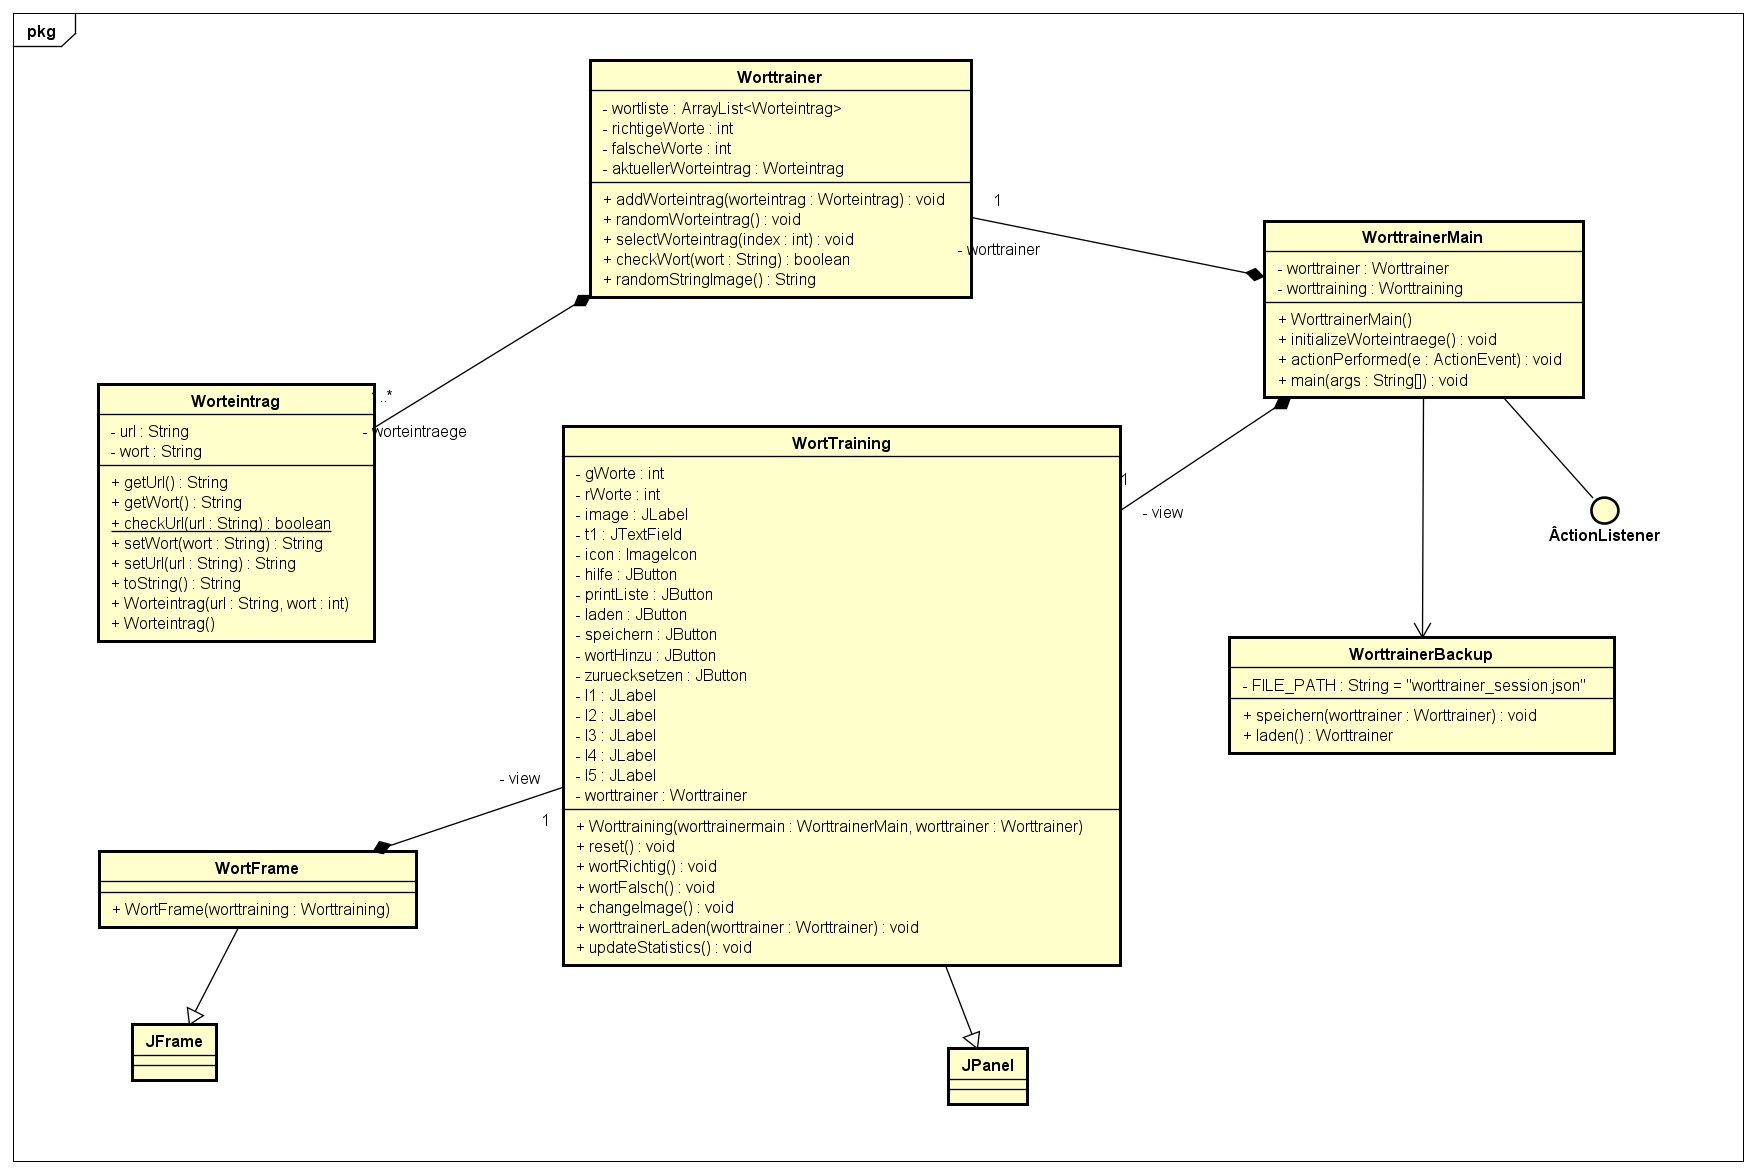
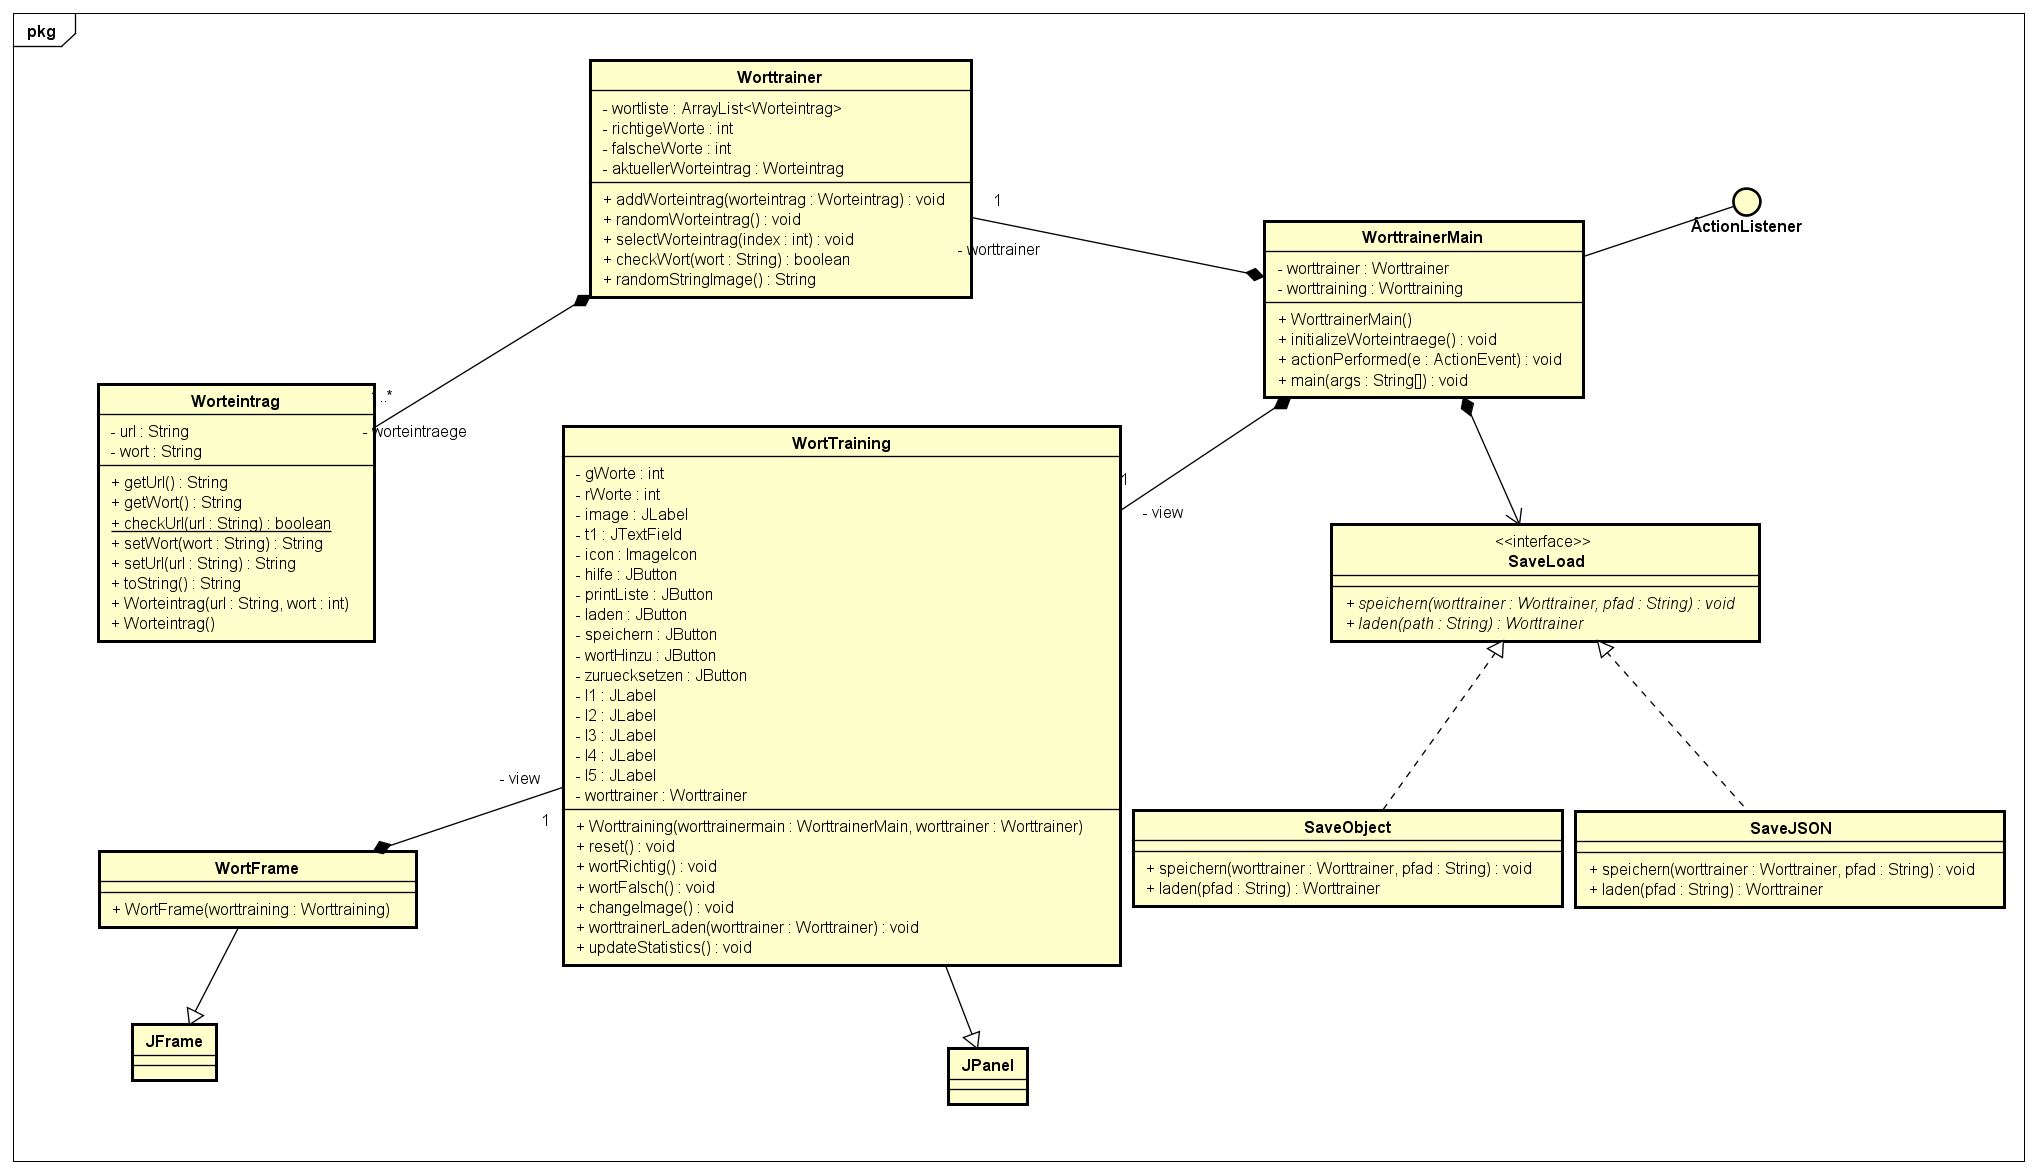
Strategy Pattern umgesetzt

diff --git a/src/main/java/worttrainer/Controller/WorttrainerMain.java b/src/main/java/worttrainer/Controller/WorttrainerMain.java
@@ -1,13 +1,15 @@
 package worttrainer.Controller;
+
 import worttrainer.Model.Worteintrag;
 import worttrainer.Model.Worttrainer;
-import worttrainer.Persistenz.WorttrainerBackup;
+import worttrainer.Persistenz.SaveJSON;
+import worttrainer.Persistenz.SaveLoad;
 import worttrainer.View.WortFrame;
 import worttrainer.View.Worttraining;
+
 import javax.swing.*;
 import java.awt.event.ActionEvent;
 import java.awt.event.ActionListener;
-import java.io.IOException;
 import java.net.MalformedURLException;
 
 /**
@@ -19,11 +21,14 @@ import java.net.MalformedURLException;
 public class WorttrainerMain implements ActionListener {
     private Worttrainer worttrainer;
     private Worttraining worttraining;
+    private SaveLoad saveLoad = new SaveJSON();
+
+
     /**
      * Konstruktor
      */
-    public WorttrainerMain() throws Exception {
-        worttrainer = new Worttrainer();
+    public WorttrainerMain() {
+        this.worttrainer = new Worttrainer();
         initializeWorteintraege();
         worttraining = new Worttraining(this, worttrainer);
         new WortFrame("Wort-Trainer", worttraining);
@@ -106,27 +111,19 @@ public class WorttrainerMain implements ActionListener {
      * Methode zum Speichern eines Fortschritts
      */
     private void handleSave() {
-        try {
-            WorttrainerBackup.speichern(worttrainer);
-            JOptionPane.showMessageDialog(null, "Fortschritt erfolgreich gespeichert!");
-        } catch (IOException e) {
-            System.err.println("Fehler beim Speichern: " + e.getMessage());
-        }
+        saveLoad.speichern(worttrainer, "worttrainer_session.json");
+        JOptionPane.showMessageDialog(null, "Fortschritt erfolgreich gespeichert!");
     }
 
     /**
      * Methode zum Laden eines Fortschritts
      */
     private void handleLoad() {
-        try {
-            this.worttrainer = WorttrainerBackup.laden();
-            worttraining.worttrainerLaden(this.worttrainer);
-            worttraining.updateStatistics();
-            worttraining.changeImage(worttrainer.getBildUrl());
-            JOptionPane.showMessageDialog(null, "Fortschritt erfolgreich geladen!");
-        } catch (IOException e) {
-            System.err.println("Fehler beim Laden: " + e.getMessage());
-        }
+        this.worttrainer = saveLoad.laden("worttrainer_session.json");
+        worttraining.worttrainerLaden(this.worttrainer);
+        worttraining.updateStatistics();
+        worttraining.changeImage(worttrainer.getBildUrl());
+        JOptionPane.showMessageDialog(null, "Fortschritt erfolgreich geladen!");
     }
 
     /**

diff --git a/src/main/java/worttrainer/Persistenz/SaveJSON.java b/src/main/java/worttrainer/Persistenz/SaveJSON.java
@@ -1,11 +1,12 @@
 package worttrainer.Persistenz;
 
-import worttrainer.Model.Worteintrag;
-import worttrainer.Model.Worttrainer;
 import org.json.JSONArray;
 import org.json.JSONObject;
-import java.io.FileWriter;
+import worttrainer.Model.Worteintrag;
+import worttrainer.Model.Worttrainer;
+
 import java.io.FileReader;
+import java.io.FileWriter;
 import java.io.IOException;
 import java.util.ArrayList;
 import java.util.List;
@@ -15,15 +16,12 @@ import java.util.List;
  * @author Kevin Duchon 5DHIT
  * @version 2024-10-20
  */
-public class WorttrainerBackup {
-    private static final String FILE_PATH = "worttrainer_session.json";
-
+public class SaveJSON implements SaveLoad{
     /**
      * Speichert die aktuelle Session des Worttrainers in einer JSON-Datei
      * @param worttrainer zu speichernde Session
-     * @throws IOException falls ein Fehler bei der Speicherung geschieht
      */
-    public static void speichern(Worttrainer worttrainer) throws IOException {
+    public void speichern(Worttrainer worttrainer, String pfad) {
         JSONObject jsonObj = new JSONObject();
 
         // Statistiken speichern
@@ -49,20 +47,21 @@ public class WorttrainerBackup {
         jsonObj.put("wortliste", wortArray);
 
         // In Datei schreiben
-        try (FileWriter file = new FileWriter(FILE_PATH)) {
-            file.write(jsonObj.toString(4)); // schöne Ausgabe
+        try (FileWriter file = new FileWriter(pfad)) {
+            file.write(jsonObj.toString(4));
+        } catch (IOException e) {
+            throw new RuntimeException(e);
         }
     }
 
     /**
      * Lädt die gespeicherte Session aus der JSON-Datei und stellt den Zustand des Worttrainers wieder her
      * @return Die Worttrainer Session
-     * @throws IOException Falls ein Fehler beim Laden des Worttrainers geschieht
      */
-    public static Worttrainer laden() throws IOException {
+    public Worttrainer laden(String pfad) {
         Worttrainer worttrainer = new Worttrainer();
 
-        try (FileReader reader = new FileReader(FILE_PATH)) {
+        try (FileReader reader = new FileReader(pfad)) {
             StringBuilder sb = new StringBuilder();
             int i;
             while ((i = reader.read()) != -1) {
@@ -96,6 +95,8 @@ public class WorttrainerBackup {
                 wortliste.add(eintrag);
             }
             worttrainer.setWortliste(wortliste);
+        } catch (IOException e) {
+            throw new RuntimeException(e);
         }
 
         return worttrainer;

diff --git a/src/main/java/worttrainer/Persistenz/SaveObject.java b/src/main/java/worttrainer/Persistenz/SaveObject.java
@@ -1,0 +1,47 @@
+package worttrainer.Persistenz;
+
+import worttrainer.Model.Worttrainer;
+
+import java.io.*;
+
+/**
+ * Klasse zum Speichern und Laden von Worttrainer-Objekten
+ * @author Kevin Duchon 5DHIT
+ * @version 2024-10-20
+ */
+public class SaveObject implements SaveLoad {
+
+    /**
+     * Speichert ein Worttrainer-Objekt in einer Datei
+     * @param worttrainer Das zu speichernde Worttrainer-Objekt.
+     * @param pfad        Der Dateipfad, unter dem das Objekt gespeichert werden soll.
+     */
+    public void speichern(Worttrainer worttrainer, String pfad) {
+        if (worttrainer == null) {
+            throw new IllegalArgumentException("Worttrainer darf nicht null sein.");
+        }
+
+        try (ObjectOutputStream os = new ObjectOutputStream(new FileOutputStream(pfad))) {
+            os.writeObject(worttrainer);
+        } catch (IOException e) {
+            throw new RuntimeException(e);
+        }
+    }
+
+    /**
+     * Lädt ein Worttrainer-Objekt aus einer Datei.
+     * @param pfad Der Dateipfad, von dem das Objekt geladen werden soll.
+     * @return Das geladene Worttrainer-Objekt.
+     */
+    public Worttrainer laden(String pfad) {
+        try (ObjectInputStream is = new ObjectInputStream(new FileInputStream(pfad))) {
+            return (Worttrainer) is.readObject();
+        } catch (ClassNotFoundException | IOException e) {
+            try {
+                throw new IOException("Die Klasse des gespeicherten Objekts konnte nicht gefunden werden.", e);
+            } catch (IOException ex) {
+                throw new RuntimeException(ex);
+            }
+        }
+    }
+}

diff --git a/src/main/java/worttrainer/Model/Worttrainer.java b/src/main/java/worttrainer/Model/Worttrainer.java
@@ -1,5 +1,6 @@
 package worttrainer.Model;
 
+import java.io.Serializable;
 import java.net.MalformedURLException;
 import java.util.ArrayList;
 import java.util.List;
@@ -10,7 +11,7 @@ import java.util.Random;
  * @author Kevin Duchon 5DHIT
  * @version 2024-10-20
  */
-public class Worttrainer {
+public class Worttrainer implements Serializable {
 
     private List<Worteintrag> wortliste = new ArrayList<>();
 
@@ -73,12 +74,12 @@ public class Worttrainer {
      */
     public String listenAusgabe() {
         StringBuilder builder = new StringBuilder();
-        for (int i = 0; i < wortliste.size(); i++) {
-            builder.append(wortliste.get(i)).append("\n");
+        for (Worteintrag eintrag : wortliste) {
+            builder.append(eintrag).append("\n");
         }
-
         return builder.toString();
     }
+
 
     public String getBildUrl() {
         if (aktuellerWorteintrag != null) {

diff --git a/src/main/java/worttrainer/Model/Worteintrag.java b/src/main/java/worttrainer/Model/Worteintrag.java
@@ -2,6 +2,7 @@ package worttrainer.Model;
 
 import javax.swing.*;
 import java.io.IOException;
+import java.io.Serializable;
 import java.net.*;
 import java.util.regex.Matcher;
 import java.util.regex.Pattern;
@@ -11,7 +12,7 @@ import java.util.regex.Pattern;
  * @author Kevin Duchon 5DHIT
  * @version 2024-10-20
  */
-public class Worteintrag {
+public class Worteintrag implements Serializable {
     private String url;
     private String wort;
 

diff --git a/src/main/java/worttrainer/Persistenz/SaveLoad.java b/src/main/java/worttrainer/Persistenz/SaveLoad.java
@@ -1,0 +1,10 @@
+package worttrainer.Persistenz;
+
+import worttrainer.Model.Worttrainer;
+
+public interface SaveLoad {
+
+    public void speichern(Worttrainer worttrainer, String pfad);
+
+    public Worttrainer laden(String pfad);
+}
